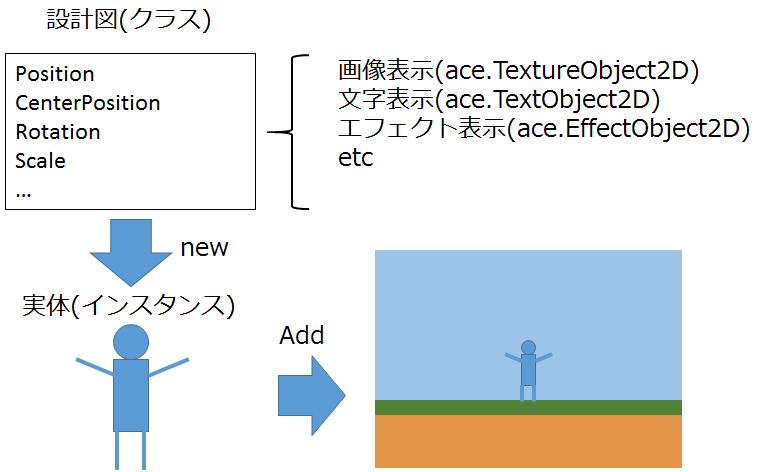
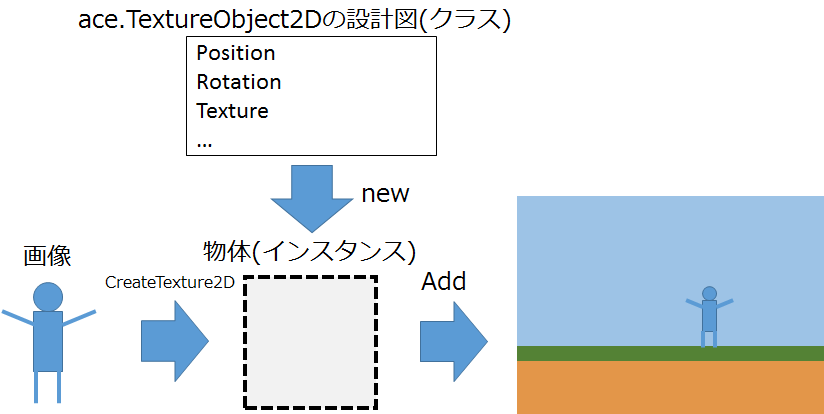
2章を修正してみた

diff --git a/Document/cs/02.md b/Document/cs/02.md
@@ -46,7 +46,7 @@ Windowsの標準機能で解凍した場合、Resourcesのフォルダが2重に
 ### プレイヤーの表示
 
 それでは、プレイヤーを表示するためにMainメソッドを以下のように書き換えます。
-
+*インスタンス*という、聞きなれない単語がコメントに記述されていますが、後で解説します。
 
 ```diff
 
@@ -58,14 +58,15 @@ class Program
 		// ACEを初期化する。
 		ace.Engine.Initialize("STG", 640, 480, new ace.EngineOption());
 		
-+		// プレイヤーオブジェクトを生成する。
++		// プレイヤーのインスタンスを生成する。
 +		ace.TextureObject2D player = new ace.TextureObject2D();
 +		
-+		// エンジンにプレイヤーオブジェクトを追加する。
-+		ace.Engine.AddObject2D(player);
-+		
-+		// 画像を読み込み、プレイヤーオブジェクトに画像を設定する。
++		// 画像を読み込み、プレイヤーのインスタンスに画像を設定する。
 +		player.Texture = ace.Engine.Graphics.CreateTexture2D("Resources/Player.png");
++
++		// エンジンにプレイヤーのインスタンスを追加する。
++		ace.Engine.AddObject2D(player);
+
 		
 		// ACEのウインドウが閉じられていないか確認する。
 		while (ace.Engine.DoEvents())
@@ -87,39 +88,45 @@ class Program
 
 ```
 
-いきなり、プレイヤーオブジェクトという初めて聞く単語が出てきました。
-ACEではプレイヤーや敵、弾等をオブジェクトと呼んでいます。
-そのオブジェクトの設計図を元にオブジェクトの実体を生成し、生成された実体をエンジンに追加すると実体が画面に描画されます。
+プレイヤーのインスタンスという初めて聞く単語が出てきました。さらにace.TextureObject2Dやnewという単語も出てきました。それぞれを順を追って説明していきます。
+ACEではプレイヤーや敵、弾といったゲーム中で動く物体を生成し、その物体をエンジンに追加すると追加された物体が画面に表示されます。
+その物体がインスタンスと呼ばれています。
 
-図で示すと以下のようになります。人を表す設計図が存在し、それを元に実体を生成し、エンジンに追加すると人が画面に現れます。
+その物体を生成するためには物体の設計図が必要です。ace.TextureObject2Dは物体の設計図に当たります。
 
-![DLL](img/02_object.png)
+newは設計図から物体を生成する命令です。
 
-この設計図はクラス、実体はインスタンスと呼ばれています。
+つまり。このソースコードでは、ace.TextureObject2Dという設計図からplayerという物体を生成しています。
 
-このオブジェクトは、実際は予めACEに用意されたクラスです。
-クラスについて詳しく知りたい方は概要に記述されているリンクの先を見てください。
-
-
-```C#
-// プレイヤーオブジェクトを生成する。
+```
 ace.TextureObject2D player = new ace.TextureObject2D();
+```
 
-// エンジンにプレイヤーオブジェクトを追加する。
-ace.Engine.AddObject2D(player);
+ace.TextureObject2Dには表示される画像は設定されておらず、画像を表示するという機能があるだけです。そのため、外部から表示される画像を設定する必要があります。
+画像を読み込むには、```ace.Engine.Graphics.CreateTexture2D``` を使用します。
+今回の場合、読み込まれた画像は ```ace.TextureObject2D.Texture``` に直接設定されています。ace.TextureObject2Dのインスタンスは設定された画像を表示します。
 
-// 画像を読み込み、プレイヤーオブジェクトに画像を設定する。
+このソースコードでは、Resources/Player.pngから画像を読み込み、プレイヤーのインスタンスに設定しています。
+
+```
 player.Texture = ace.Engine.Graphics.CreateTexture2D("Resources/Player.png");
 ```
 
-ここでオブジェクトのインスタンスを作成し、エンジンに追加しています。プレイヤーにあたるインスタンスなので変数名はplayerとしています。
+最後にインスタンスをエンジンに追加します。
 
-ACEには様々なオブジェクトが用意されており、```ace.TextureObject2D```は2Dの画像を描画する機能を持ちます。これの他にも、
-文字を描画、エフェクトを描画といった機能を持つオブジェクトも存在します。
+```
+ace.Engine.AddObject2D(player);
+```
 
-```ace.TextureObject2D``` に画像を設定すると、その画像が描画されます。
-画像を読み込むには、```ace.Engine.Graphics.CreateTexture2D``` を使用します。
-今回の場合、読み込まれた画像は ```ace.TextureObject2D.Texture``` に直接設定されています。オブジェクトは設定された画像を表示します。
+図で示すと以下のようになります。ace.TextureObject2Dという設計図が存在し、それを元に実体を生成します。
+そして、人の画像を実体に設定してエンジンに追加すると人が画面に現れます。
+
+![DLL](img/02_object.png)
+
+ちなみ、C#では、この設計図はクラスと呼ばれています。
+
+ace.TextureObject2Dは、実際は予めACEに用意されたクラスです。
+クラスについて詳しく知りたい方は概要に記述されているリンクの先を見てください。
 
 無事動作するとこのように表示されます。
 
@@ -138,16 +145,16 @@ class Program
 		// ACEを初期化する。
 		ace.Engine.Initialize("STG", 640, 480, new ace.EngineOption());
 		
-		// プレイヤーオブジェクトを生成する。
+		// プレイヤーのインスタンスを生成する。
 		ace.TextureObject2D player = new ace.TextureObject2D();
 		
-		// エンジンにプレイヤーオブジェクトを追加する。
+		// 画像を読み込み、プレイヤーのインスタンスに画像を設定する。
+		player.Texture = ace.Engine.Graphics.CreateTexture2D("Resources/Player.png");
+
+		// エンジンにプレイヤーのインスタンスを追加する。
 		ace.Engine.AddObject2D(player);
 		
-		// 画像を読み込み、プレイヤーオブジェクトに画像を設定する。
-		player.Texture = ace.Engine.Graphics.CreateTexture2D("Resources/Player.png");
-		
-+		// プレイヤーの位置を変更する。
++		// プレイヤーのインスタンスの位置を変更する。
 +		player.Position = new ace.Vector2DF(320, 240);
 
 		// ACEのウインドウが閉じられていないか確認する。
@@ -174,7 +181,7 @@ class Program
 player.Position = new ace.Vector2DF(100, 200);
 ```
 
-というソースコードが追加されました。ここでオブジェクトの場所を変更しています。
+というソースコードが追加されました。ここでプレイヤーのインスタンスの場所を変更しています。
 
 無事動作するとこのように表示されます。
 
